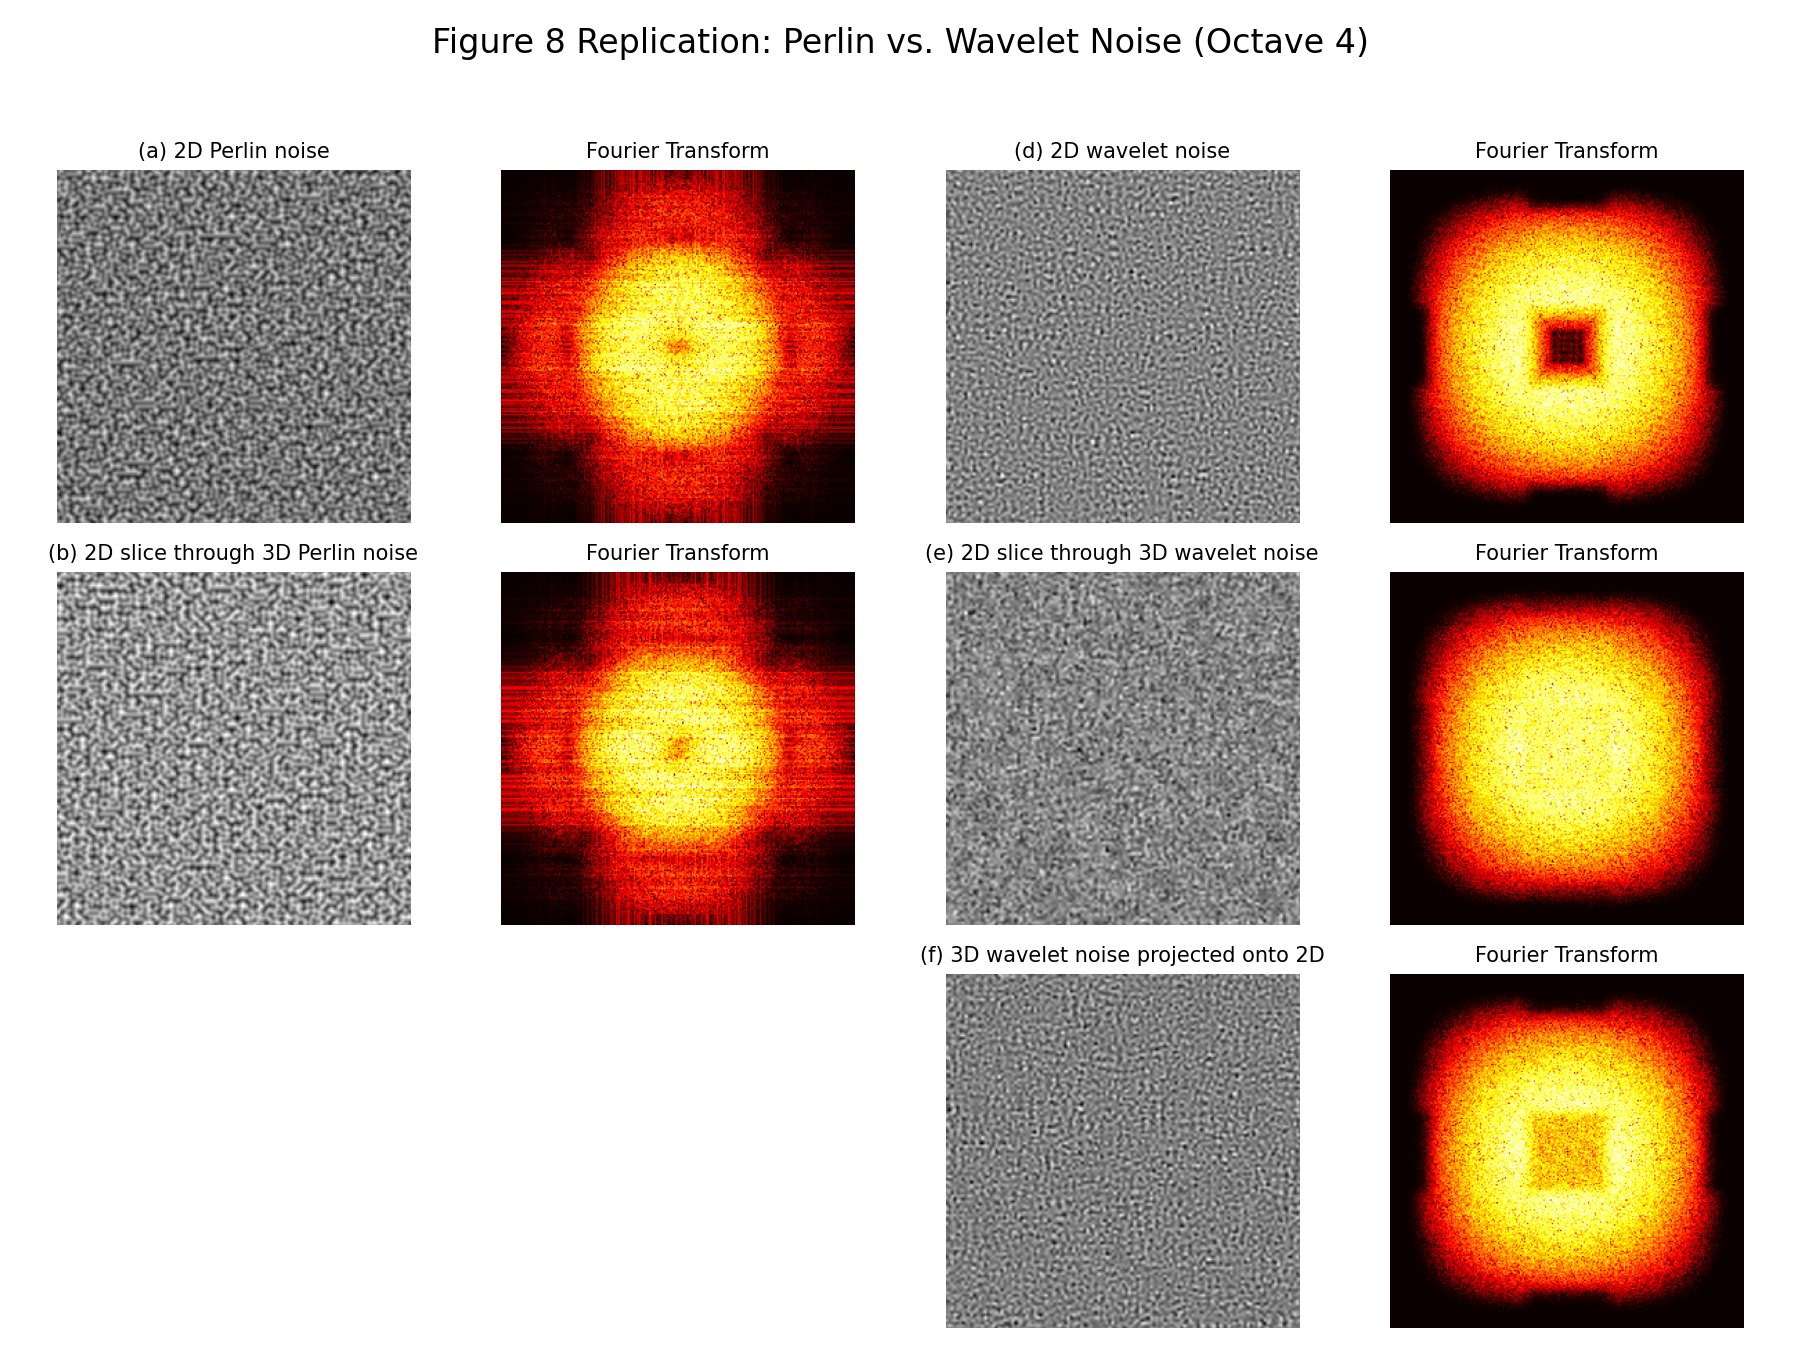
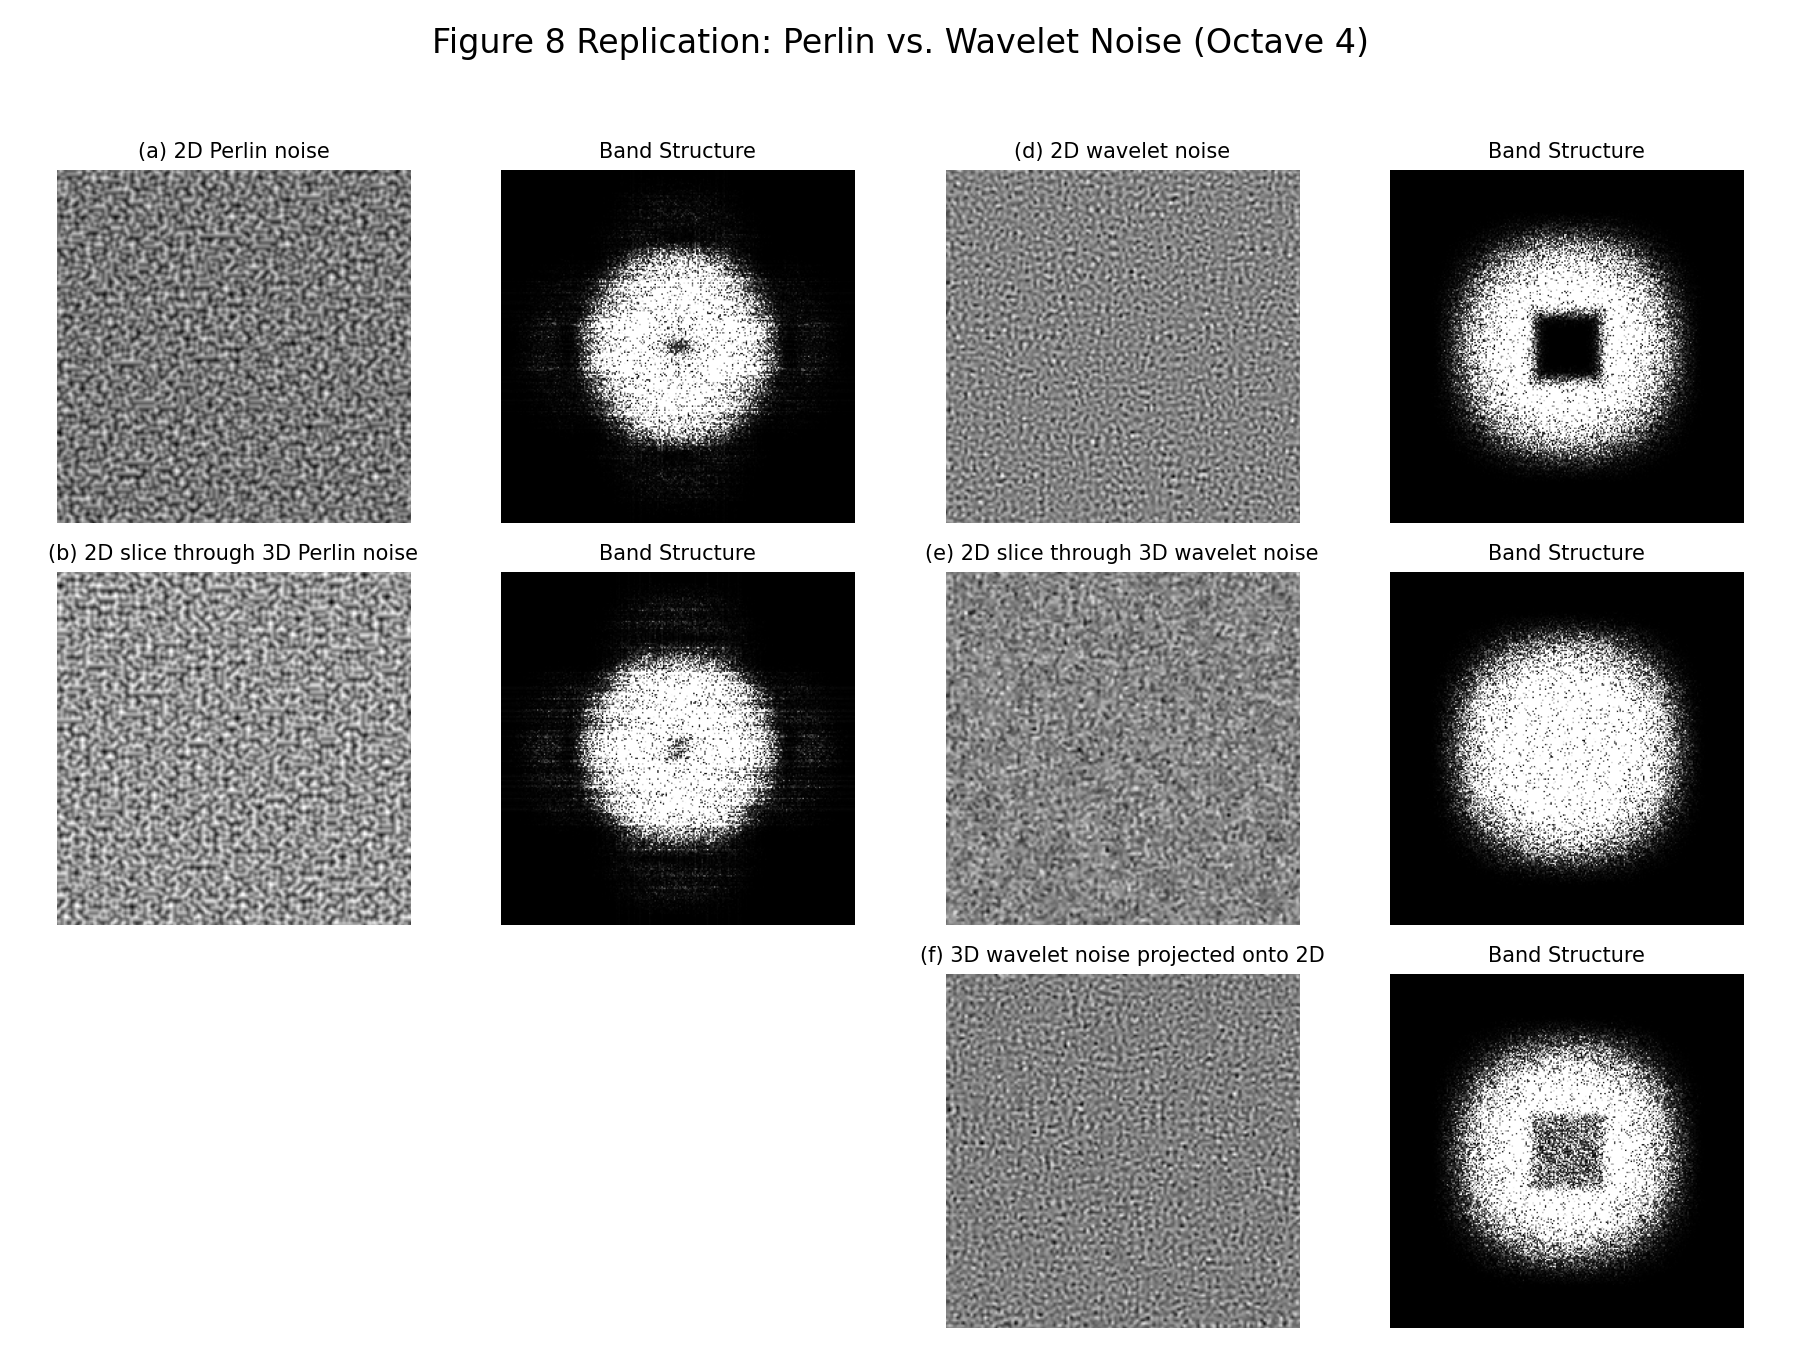
fix analyze

Changed region(s): [[0.28, 0.0933, 0.4978, 0.6844], [0.7778, 0.4044, 0.9644, 0.9644], [0.7778, 0.0933, 0.9644, 0.3733]]

diff --git a/experient/analyze.py b/experient/analyze.py
@@ -414,17 +414,47 @@ def create_figure8_comparison(octave=4):
         print("Warning: Missing one or more data files for Figure 8 comparison. Skipping.")
         return
 
+    def plot_pattern_and_band_structure(ax_pattern, ax_band, data, title):
+        """Helper function to plot a noise pattern and its band structure side-by-side."""
+        if data is None:
+            ax_pattern.text(0.5, 0.5, 'Data\nNot Found', ha='center', va='center', color='red')
+            ax_pattern.axis('off')
+            ax_band.text(0.5, 0.5, 'Band Structure\nNot Found', ha='center', va='center', color='red')
+            ax_band.axis('off')
+            ax_pattern.set_title(title, fontsize=10)
+            return
+
+        ax_pattern.imshow(data, cmap='gray')
+        ax_pattern.set_title(title, fontsize=10)
+        ax_pattern.axis('off')
+
+        # --- Band Structure Calculation ---
+        data_centered = data - np.mean(data)
+        F = fftshift(fft2(data_centered))
+        power_spectrum = np.abs(F) ** 2
+        
+        # The key to visualizing the band is the aggressive vmax
+        if np.max(power_spectrum) > 0:
+            power_norm = power_spectrum / np.max(power_spectrum)
+            ax_band.imshow(power_norm, cmap='gray', vmin=0, vmax=1e-2)
+        else:
+            # Handle case with no power
+            ax_band.imshow(np.zeros_like(data), cmap='gray', vmin=0, vmax=1e-2)
+
+        ax_band.set_title("Band Structure", fontsize=10)
+        ax_band.axis('off')
+
     fig, axes = plt.subplots(3, 4, figsize=(12, 9))
     fig.suptitle(f'Figure 8 Replication: Perlin vs. Wavelet Noise (Octave {octave})', fontsize=16, y=0.98)
 
     axes[2, 0].remove()
     axes[2, 1].remove()
 
-    plot_pattern_and_fft(axes[0, 0], axes[0, 1], p_2d, "(a) 2D Perlin noise")
-    plot_pattern_and_fft(axes[1, 0], axes[1, 1], p_3d_slice, "(b) 2D slice through 3D Perlin noise")
-    plot_pattern_and_fft(axes[0, 2], axes[0, 3], w_2d, "(d) 2D wavelet noise")
-    plot_pattern_and_fft(axes[1, 2], axes[1, 3], w_3d_slice, "(e) 2D slice through 3D wavelet noise")
-    plot_pattern_and_fft(axes[2, 2], axes[2, 3], w_3d_proj, "(f) 3D wavelet noise projected onto 2D")
+    plot_pattern_and_band_structure(axes[0, 0], axes[0, 1], p_2d, "(a) 2D Perlin noise")
+    plot_pattern_and_band_structure(axes[1, 0], axes[1, 1], p_3d_slice, "(b) 2D slice through 3D Perlin noise")
+    plot_pattern_and_band_structure(axes[0, 2], axes[0, 3], w_2d, "(d) 2D wavelet noise")
+    plot_pattern_and_band_structure(axes[1, 2], axes[1, 3], w_3d_slice, "(e) 2D slice through 3D wavelet noise")
+    plot_pattern_and_band_structure(axes[2, 2], axes[2, 3], w_3d_proj, "(f) 3D wavelet noise projected onto 2D")
 
     plt.tight_layout(rect=[0, 0, 1, 0.95])
     output_filename = f"result_analyze/figure8_comparison_octave_{o_str}.png"

diff --git a/README.md b/README.md
@@ -25,68 +25,80 @@ make compare
 
 ### 渲染結果展示
 
-| Perlin Noise 光線追蹤渲染結果 | Wavelet 3D Noise 光線追蹤渲染結果 |
-|:---:|:---:|
-| <img src="result_raytracing/raytrace_Perlin_octave4.png" width="400" alt="Perlin Ray Tracing Result"> | <img src="result_raytracing/raytrace_Wavelet3D_octave4.png" width="400" alt="Wavelet 3D Ray Tracing Result"> |
-
+<div style="display:flex; flex-wrap:wrap; gap:20px; justify-content:center;">
+  <div style="flex:1; min-width:300px; max-width:400px; text-align:center;">
+    <strong>Perlin Noise 光線追蹤渲染結果</strong><br>
+    <img src="result_raytracing/raytrace_Perlin_octave4.png" style="width:100%;" alt="Perlin Ray Tracing Result">
+  </div>
+  <div style="flex:1; min-width:300px; max-width:400px; text-align:center;">
+    <strong>Wavelet 3D Noise 光線追蹤渲染結果</strong><br>
+    <img src="result_raytracing/raytrace_Wavelet3D_octave4.png" style="width:100%;" alt="Wavelet Ray Tracing Result">
+  </div>
+</div>
 
 ---
 
 ## 第二部分：噪聲實驗與分析
 
 ### 功能說明
-實驗產出接近原始論文 Figure 8 的結果，驗證 wavelet noise band-limite 的特性
+實驗產出接近原始論文 Figure 8 的結果，驗證 wavelet noise band-limited 的特性
 
 ### 原始論文參照
-<img src="asset/wavelet%20noise%20figure8.png" width="500" alt="Wavelet Function Figure 8">
 
-<table>
-<tr>
-<td width="200px"><strong>我的實驗結果 (Octave 4)</strong></td>
-<td align="center"></td>
-</tr>
-<tr>
-<td width="200px"><strong>Perlin Noise 分析:</strong></td>
-<td></td>
-</tr>
-<tr>
-<td width="200px">Perlin 2D Noise 詳細分析 (Octave 4)</td>
-<td align="center"><img src="experient/result_analyze/perlin_noise_2D_octave_4_detailed_analysis.png" width="450" alt="Perlin 2D Analysis"></td>
-</tr>
-<tr>
-<td width="200px">Perlin 3D Sliced Noise 詳細分析 (Octave 4)</td>
-<td align="center"><img src="experient/result_analyze/perlin_noise_3Dsliced_octave_4_detailed_analysis.png" width="450" alt="Perlin 3D Sliced Analysis"></td>
-</tr>
-<tr>
-<td width="200px"><strong>Wavelet Noise 分析(此為單一頻帶結果):</strong></td>
-<td></td>
-</tr>
-<tr>
-<td width="200px">Wavelet 2D Noise 詳細分析 (Octave 4)</td>
-<td align="center"><img src="experient/result_analyze/wavelet_noise_2D_octave_4_detailed_analysis.png" width="450" alt="Wavelet 2D Analysis"></td>
-</tr>
-<tr>
-<td width="200px">Wavelet 3D Sliced Noise 詳細分析 (Octave 4)</td>
-<td align="center"><img src="experient/result_analyze/wavelet_noise_3Dsliced_octave_4_detailed_analysis.png" width="450" alt="Wavelet 3D Sliced Analysis"></td>
-</tr>
-<tr>
-<td width="200px">Wavelet 3D Projected Noise 詳細分析 (Octave 4)</td>
-<td align="center"><img src="experient/result_analyze/wavelet_noise_3Dprojected_octave_4_detailed_analysis.png" width="450" alt="Wavelet 3D Projected Analysis"></td>
-</tr>
-<tr>
-<td width="200px"><strong>整體比較分析:</strong></td>
-<td></td>
-</tr>
-<tr>
-<td width="200px">Wavelet Noise 完整比較 (Octave 4)</td>
-<td align="center"><img src="experient/result_analyze/wavelet_full_comparison_octave_4.png" width="450" alt="Wavelet Full Comparison"></td>
-</tr>
-<tr>
-<td width="200px">與原始論文 Figure 8 的比較 (Octave 4)</td>
-<td align="center"><img src="experient/result_analyze/figure8_comparison_octave_4.png" width="450" alt="Figure 8 Comparison"></td>
-</tr>
-</table>
+<div style="text-align:center; max-width:500px; margin:auto;">
+  <img src="asset/wavelet%20noise%20figure8.png" style="width:100%;" alt="Wavelet Function Figure 8">
+</div>
 
+---
+
+### 我的實驗結果 (Octave 4)
+
+#### Perlin Noise 分析：
+
+**Perlin 2D Noise 詳細分析 (Octave 4)**  
+<div style="text-align:center; max-width:700px; margin:auto;">
+  <img src="experient/result_analyze/perlin_noise_2D_octave_4_detailed_analysis.png" style="width:100%;" alt="Perlin 2D Analysis">
+</div>
+
+**Perlin 3D Sliced Noise 詳細分析 (Octave 4)**  
+<div style="text-align:center; max-width:700px; margin:auto;">
+  <img src="experient/result_analyze/perlin_noise_3Dsliced_octave_4_detailed_analysis.png" style="width:100%;" alt="Perlin 3D Sliced Analysis">
+</div>
+
+---
+
+#### Wavelet Noise 分析（單一頻帶）：
+
+**Wavelet 2D Noise 詳細分析 (Octave 4)**  
+<div style="text-align:center; max-width:700px; margin:auto;">
+  <img src="experient/result_analyze/wavelet_noise_2D_octave_4_detailed_analysis.png" style="width:100%;" alt="Wavelet 2D Analysis">
+</div>
+
+**Wavelet 3D Sliced Noise 詳細分析 (Octave 4)**  
+<div style="text-align:center; max-width:700px; margin:auto;">
+  <img src="experient/result_analyze/wavelet_noise_3Dsliced_octave_4_detailed_analysis.png" style="width:100%;" alt="Wavelet 3D Sliced Analysis">
+</div>
+
+**Wavelet 3D Projected Noise 詳細分析 (Octave 4)**  
+<div style="text-align:center; max-width:700px; margin:auto;">
+  <img src="experient/result_analyze/wavelet_noise_3Dprojected_octave_4_detailed_analysis.png" style="width:100%;" alt="Wavelet 3D Projected Analysis">
+</div>
+
+---
+
+#### 整體比較分析：
+
+**Wavelet Noise 完整比較 (Octave 4)**  
+<div style="text-align:center; max-width:700px; margin:auto;">
+  <img src="experient/result_analyze/wavelet_full_comparison_octave_4.png" style="width:100%;" alt="Wavelet Full Comparison">
+</div>
+
+**與原始論文 Figure 8 的比較 (Octave 4)**  
+<div style="text-align:center; max-width:700px; margin:auto;">
+  <img src="experient/result_analyze/figure8_comparison_octave_4.png" style="width:100%;" alt="Figure 8 Comparison">
+</div>
+
+---
 
 ### 使用方式
 ```bash
@@ -94,10 +106,10 @@ make compare
 cd experient && make
 
 # 執行噪聲實驗（生成 raw 數據）
-cd experient && make run
+make run
 
 # 分析實驗結果
-cd experient && python3 analyze.py
+python3 analyze.py
 ```
 
 ---
@@ -118,9 +130,15 @@ cd threejs && python3 -m http.server 8000
 # 在瀏覽器中開啟 http://localhost:8000
 ```
 
-### Web 可視化結果展示
-*(原始版本具有互動功能)*
+### Web 可視化結果展示  
 
-| Perlin Noise 互動式可視化介面 | Wavelet Noise 互動式可視化介面 |
-|:---:|:---:|
-| <img src="asset/threejs_perlin.png" width="400" alt="Perlin Noise Web Visualization"> | <img src="asset/threejs_wavelet.png" width="400" alt="Wavelet Noise Web Visualization"> |
+<div style="display:flex; flex-wrap:wrap; gap:20px; justify-content:center;">
+  <div style="flex:1; min-width:300px; max-width:400px; text-align:center;">
+    <strong>Perlin Noise 互動式可視化介面</strong><br>
+    <img src="asset/threejs_perlin.png" style="width:100%;" alt="Perlin Noise Web Visualization">
+  </div>
+  <div style="flex:1; min-width:300px; max-width:400px; text-align:center;">
+    <strong>Wavelet Noise 互動式可視化介面</strong><br>
+    <img src="asset/threejs_wavelet.png" style="width:100%;" alt="Wavelet Noise Web Visualization">
+  </div>
+</div>

diff --git a/README-en.md b/README-en.md
@@ -51,52 +51,52 @@ Experiments produce results close to the original paper's Figure 8, validating t
 ### Original Paper Reference
 <img src="asset/wavelet%20noise%20figure8.png" width="500" alt="Wavelet Function Figure 8">
 
-<table>
-<tr>
-<td width="250px"><strong>My Experimental Results (Octave 4)</strong></td>
-<td align="center"></td>
-</tr>
-<tr>
-<td><strong>Perlin Noise Analysis:</strong></td>
-<td></td>
-</tr>
-<tr>
-<td>Perlin 2D Noise Detailed Analysis (Octave 4)</td>
-<td align="center"><img src="experient/result_analyze/perlin_noise_2D_octave_4_detailed_analysis.png" width="350" alt="Perlin 2D Analysis"></td>
-</tr>
-<tr>
-<td>Perlin 3D Sliced Noise Detailed Analysis (Octave 4)</td>
-<td align="center"><img src="experient/result_analyze/perlin_noise_3Dsliced_octave_4_detailed_analysis.png" width="350" alt="Perlin 3D Sliced Analysis"></td>
-</tr>
-<tr>
-<td><strong>Wavelet Noise Analysis (Single frequency band results):</strong></td>
-<td></td>
-</tr>
-<tr>
-<td>Wavelet 2D Noise Detailed Analysis (Octave 4)</td>
-<td align="center"><img src="experient/result_analyze/wavelet_noise_2D_octave_4_detailed_analysis.png" width="350" alt="Wavelet 2D Analysis"></td>
-</tr>
-<tr>
-<td>Wavelet 3D Sliced Noise Detailed Analysis (Octave 4)</td>
-<td align="center"><img src="experient/result_analyze/wavelet_noise_3Dsliced_octave_4_detailed_analysis.png" width="350" alt="Wavelet 3D Sliced Analysis"></td>
-</tr>
-<tr>
-<td>Wavelet 3D Projected Noise Detailed Analysis (Octave 4)</td>
-<td align="center"><img src="experient/result_analyze/wavelet_noise_3Dprojected_octave_4_detailed_analysis.png" width="350" alt="Wavelet 3D Projected Analysis"></td>
-</tr>
-<tr>
-<td><strong>Overall Comparison Analysis:</strong></td>
-<td></td>
-</tr>
-<tr>
-<td>Wavelet Noise Complete Comparison (Octave 4)</td>
-<td align="center"><img src="experient/result_analyze/wavelet_full_comparison_octave_4.png" width="350" alt="Wavelet Full Comparison"></td>
-</tr>
-<tr>
-<td>Comparison with Original Paper Figure 8 (Octave 4)</td>
-<td align="center"><img src="experient/result_analyze/figure8_comparison_octave_4.png" width="350" alt="Figure 8 Comparison"></td>
-</tr>
-</table>
+### My Experimental Results (Octave 4)
+
+#### Perlin Noise Analysis:
+
+**Perlin 2D Noise Detailed Analysis (Octave 4)**
+<div style="text-align:center; max-width:700px; margin:auto;">
+  <img src="experient/result_analyze/perlin_noise_2D_octave_4_detailed_analysis.png" style="width:100%;" alt="Perlin 2D Analysis">
+</div>
+
+**Perlin 3D Sliced Noise Detailed Analysis (Octave 4)**
+<div style="text-align:center; max-width:700px; margin:auto;">
+  <img src="experient/result_analyze/perlin_noise_3Dsliced_octave_4_detailed_analysis.png" style="width:100%;" alt="Perlin 3D Sliced Analysis">
+</div>
+
+---
+
+#### Wavelet Noise Analysis (Single frequency band results):
+
+**Wavelet 2D Noise Detailed Analysis (Octave 4)**
+<div style="text-align:center; max-width:700px; margin:auto;">
+  <img src="experient/result_analyze/wavelet_noise_2D_octave_4_detailed_analysis.png" style="width:100%;" alt="Wavelet 2D Analysis">
+</div>
+
+**Wavelet 3D Sliced Noise Detailed Analysis (Octave 4)**
+<div style="text-align:center; max-width:700px; margin:auto;">
+  <img src="experient/result_analyze/wavelet_noise_3Dsliced_octave_4_detailed_analysis.png" style="width:100%;" alt="Wavelet 3D Sliced Analysis">
+</div>
+
+**Wavelet 3D Projected Noise Detailed Analysis (Octave 4)**
+<div style="text-align:center; max-width:700px; margin:auto;">
+  <img src="experient/result_analyze/wavelet_noise_3Dprojected_octave_4_detailed_analysis.png" style="width:100%;" alt="Wavelet 3D Projected Analysis">
+</div>
+
+---
+
+#### Overall Comparison Analysis:
+
+**Wavelet Noise Complete Comparison (Octave 4)**
+<div style="text-align:center; max-width:700px; margin:auto;">
+  <img src="experient/result_analyze/wavelet_full_comparison_octave_4.png" style="width:100%;" alt="Wavelet Full Comparison">
+</div>
+
+**Comparison with Original Paper Figure 8 (Octave 4)**
+<div style="text-align:center; max-width:700px; margin:auto;">
+  <img src="experient/result_analyze/figure8_comparison_octave_4.png" style="width:100%;" alt="Figure 8 Comparison">
+</div>
 
 ### Usage
 ```bash
